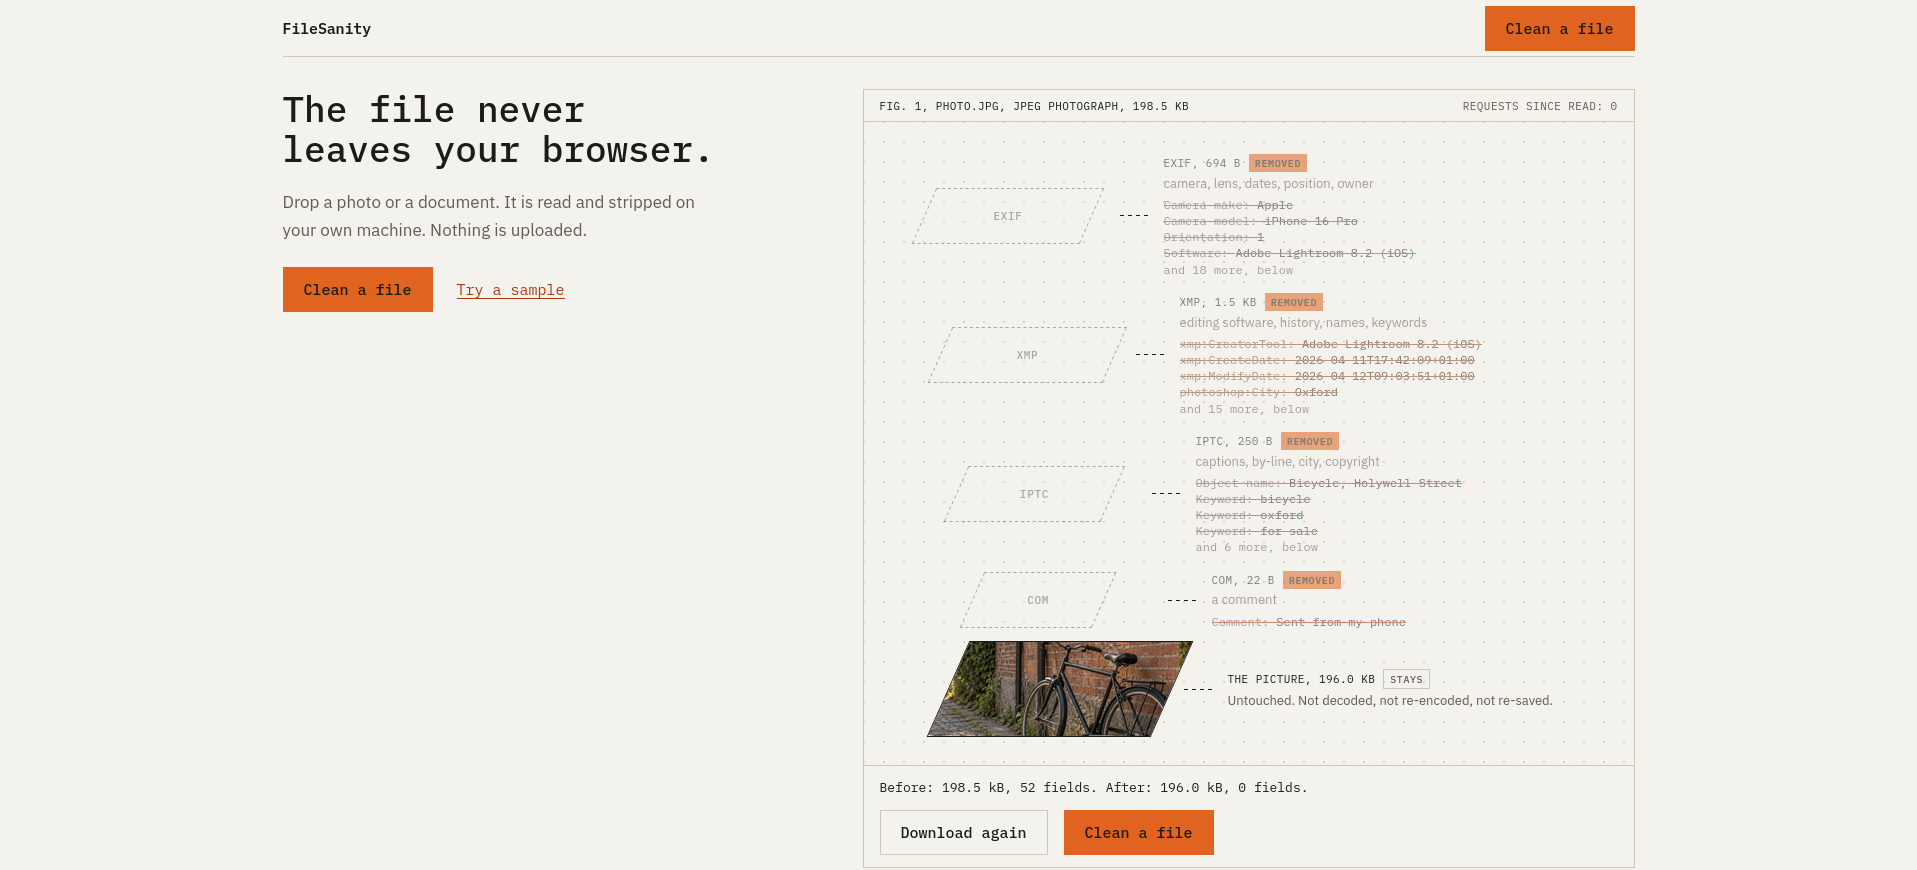
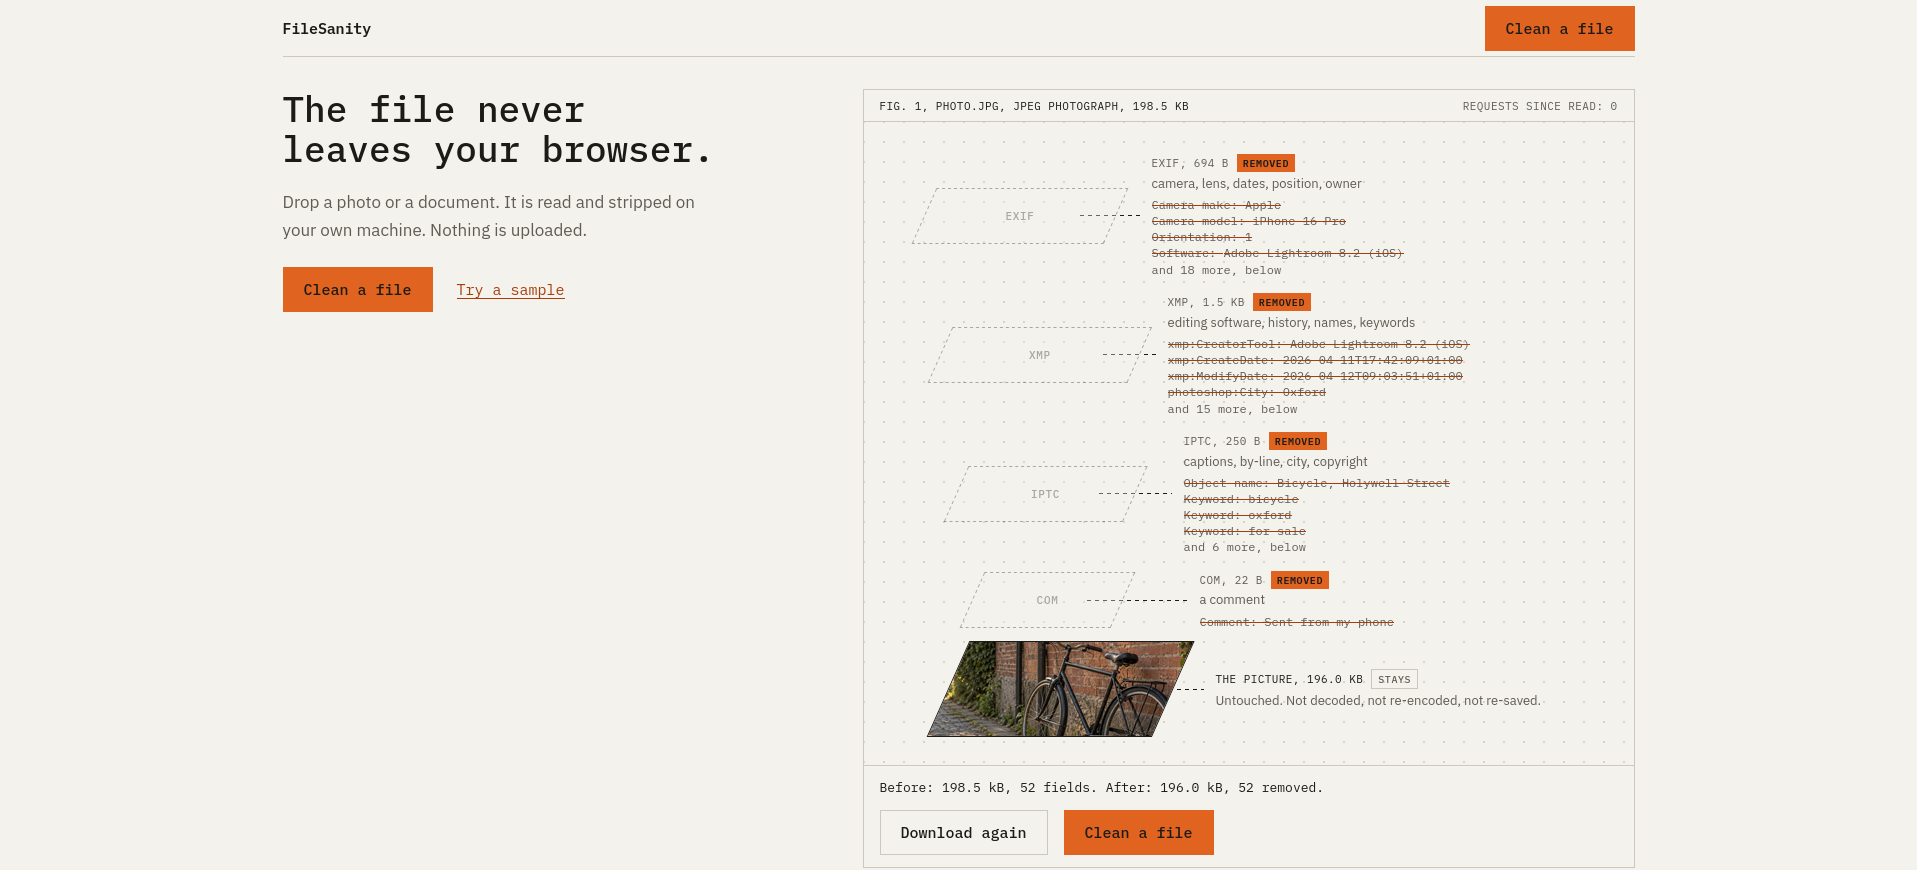
docs: critic round 1 fixes, refreshed screenshots

Changed region(s): [[0.5848, 0.1552, 0.7694, 0.7448], [0.5232, 0.7448, 0.8002, 0.8379], [0.6463, 0.9, 0.6771, 0.931]]

diff --git a/DECISIONS.md b/DECISIONS.md
@@ -452,3 +452,51 @@ anything is read.
 - The skill's "hero image under 200 kB" budget has no line for a page
   whose hero is a working component with no image; the LCP element here
   is a paragraph, which is what the critic will measure.
+
+## Critic round 1 (FAIL 6) and fixes, 2026-09-19
+
+1. Cleaned-state contrast: `.row-gone .callout` opacity 0.55 dropped text
+   to 2.4:1. Chose colour `var(--muted)` on the callout with no opacity
+   over keeping a lighter fade because muted measures 6.0:1 on paper and
+   6.7:1 on the dark ground; the plate itself still fades and goes dashed,
+   the values still strike through. Measured on painted glyphs in the
+   after-state (`tools/measure.py`): worst 4.9:1 light (the REMOVED tag's
+   ink on orange), 5.0:1 dark.
+2. Leader join: the leader was a fixed stub in its own grid column. Chose
+   a flex cell holding the plate at its byte-derived width and the leader
+   as `flex-1` over absolute positioning, so it starts at the plate's
+   drawn edge and ends at the callout at every width. Measured at
+   1917x870, 1366x650 and 390x844, empty and with a file: plate edge to
+   leader 4 px on every row, leader end to label 12 px (8 px on phone).
+3. PDF copy against the parser: compressed XMP streams are shown as
+   "compressed stream, kept"; the figure note and the spec row say a
+   compressed XMP stream (the usual Word or Acrobat case) is shown and
+   kept; the After line reads "N removed, M kept"; when nothing is
+   strippable but something is kept the foot says so instead of "Nothing
+   to remove". `tests/files/memo-z.pdf` (FlateDecode /Metadata) added;
+   `tests/run.py` asserts the creator survives, the note text and the
+   "8 removed, 1 kept" line.
+4. Refusals by reason: byte sniffing failing on a known extension says
+   "This .jpg does not begin like a JPEG"; an unknown kind says "cannot
+   read .txt files yet"; a dropped folder (webkitGetAsEntry isDirectory, or
+   an unreadable or empty File) says it is a folder; more than one file
+   reads the first and the caption says "One file at a time, reading
+   <name>". The picker itself is single-file, so two files arrive only by
+   drop; the test dispatches a synthetic drop. `tests/files/notajpeg.jpg`
+   added.
+5. Live region: `aria-live="polite"` on the figcaption, which carries the
+   state line, the hint and the request counter.
+6. Hygiene: dist rebuilt (og.png served as image/png), the scaffold's
+   icons.svg sprite gone from public and dist. Inline `style` on the body
+   plate replaced by `.plate-body`; the remaining inline styles are the
+   data-derived plate widths and row indents.
+
+Notes: the figure's "Drop a file here, or choose one" stays as the
+figure's own control, logged above. At 390x844 the drop bar sits at 886
+after tightening the hero spacing (was 947); the Success line's three
+items (what it does, that the file stays, the CTA) are above the fold and
+the bar is the figure's second way in, so it is left below.
+
+Not regressed: JS 80.4 kB gz, LCP 936 ms and CLS 0.006 throttled phone,
+six tab stops, zero requests during read and clean, ALL PASS on nine
+files and four edge paths.

diff --git a/PROGRESS.md b/PROGRESS.md
@@ -5,8 +5,8 @@ update before ending one.
 
 ## Current phase
 
-Built, tested, screenshotted, committed. Awaiting the critic (not run by
-the builder) and the client's own browser pass.
+Critic round 1 returned FAIL 6; all six fixed, measured and committed.
+Awaiting critic round 2 and the client's own browser pass.
 
 ## Done
 
